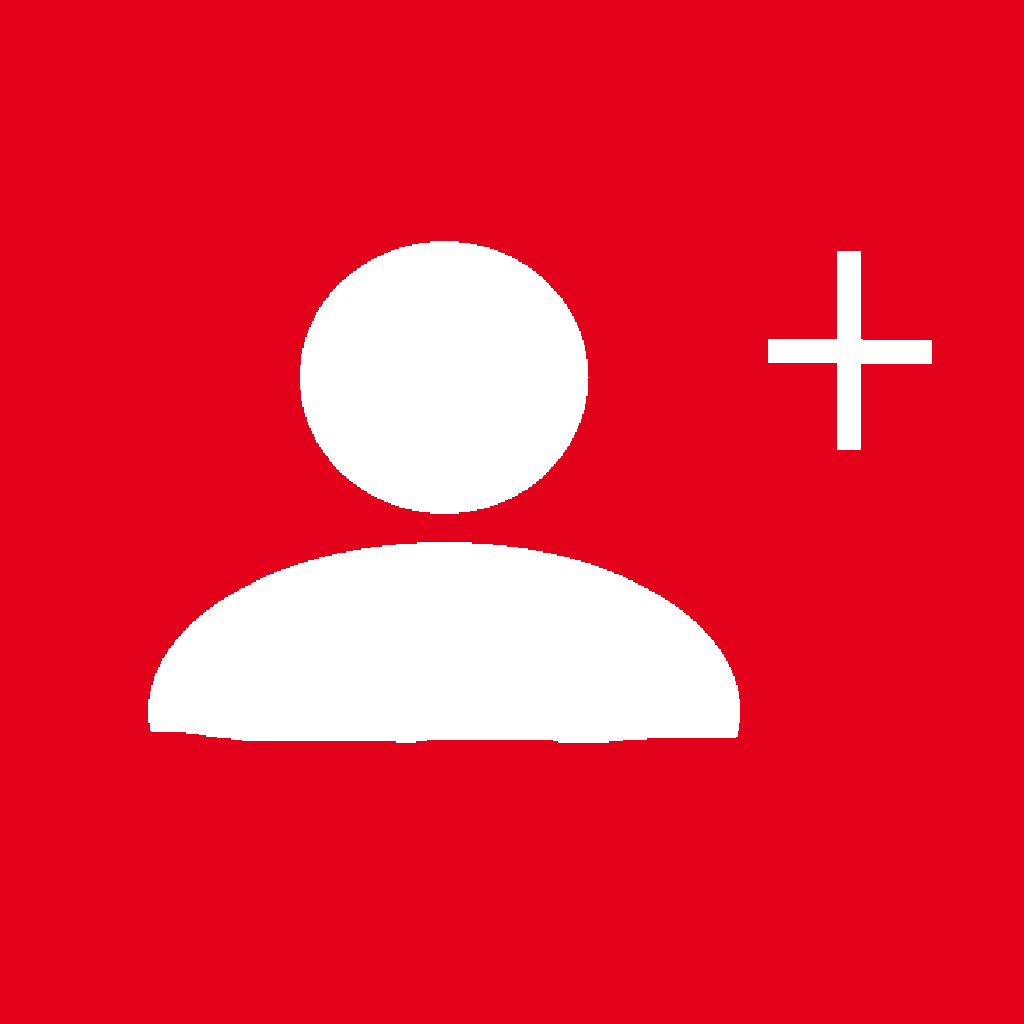
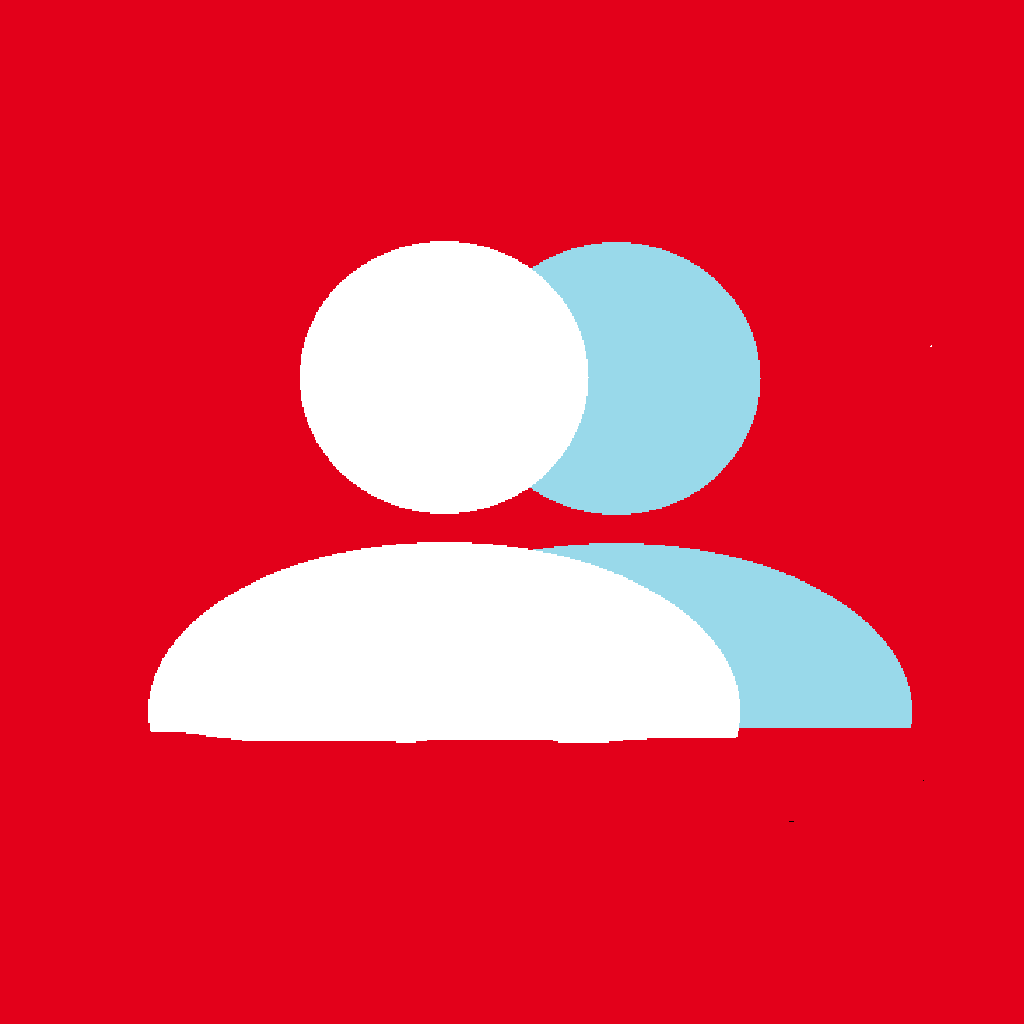
feed com estrelas, foto de perfil,biografia e outras adições

Changed region(s): [[0.5, 0.2188, 0.9062, 0.7188]]

diff --git a/backend/profiles.py b/backend/profiles.py
@@ -1,0 +1,80 @@
+from flask import Flask, request, jsonify, Blueprint, uuid, send_from_directory
+import os
+import sqlite3
+#pasta atual
+base_dir = os.path.dirname(os.path.abspath(__file__))
+#pasta dos bancos de dados
+db_dir = (base_dir + "/DB")
+#arquivo de banco de dado de post
+profile_dir = (db_dir + "/profile.db")
+profile_bp = Blueprint("profile", __name__)
+def get_db():
+    conn = sqlite3.connect(profile_dir)
+    return conn
+def create_table():
+    conn = get_db()
+    cur = conn.cursor()
+    cur.execute("CREATE TABLE IF NOT EXISTS profile (username TEXT, bio TEXT, ProfilePicture TEXT followers INTEGER, following INTEGER)")
+    conn.commit()
+    conn.close()
+create_table()
+@profile_bp.route("/edit", methods=["POST"])
+def edit():
+    data = request.get_json()
+    edit_mode = data.get("edit-mode")
+    content = data.get("content")
+    username = data.get("username")
+    if edit_mode == "bio":
+        conn = get_db
+        cur = conn.cursor()
+        cur.execute("INSERT INTO profile (bio) VALUES (?,) WHERE username = ?", (content, username))
+        conn.commit()
+        conn.close()
+        return jsonify({"status":"edit is sucessful"}),200
+
+UPLOAD_FOLDER = "../profile-pictures"
+os.makedirs(UPLOAD_FOLDER, exist_ok=True)
+
+@profile_bp.route("/upload_profile_pic", methods=["POST"])
+def upload_profile_pic():
+
+    username = request.form.get("username")
+
+    if not username:
+        return jsonify({"error": "Username não enviado"}), 400
+
+    if "file" not in request.files:
+        return jsonify({"error": "Nenhum arquivo enviado"}), 400
+
+    file = request.files["file"]
+
+    if file.filename == "":
+        return jsonify({"error": "Arquivo vazio"}), 400
+
+    ext = file.filename.split(".")[-1].lower()
+
+    if ext not in ["png", "jpg", "jpeg", "webp"]:
+        return jsonify({"error": "Formato inválido"}), 400
+
+    filename = f"{uuid.uuid4()}.{ext}"
+    file_path = os.path.join(UPLOAD_FOLDER, filename)
+
+    file.save(file_path)
+
+    conn = get_db()
+    cur = conn.cursor()
+
+    cur.execute(
+        "UPDATE profile SET ProfilePicture = ? WHERE username = ?",
+        (filename, username)
+    )
+
+    conn.commit()
+
+    return jsonify({"success": True, "filename": filename}), 200
+
+
+@profile_bp.route("/profile_pics/<filename>")
+def get_profile_pic(filename):
+    return send_from_directory(UPLOAD_FOLDER, filename)
+    

diff --git a/frontend-client/menu.py b/frontend-client/menu.py
@@ -223,37 +223,70 @@ def main_app():
             label(exit_label_text, window)
         button(signout_text, sign_out, window)
         button(back_text, main, window)
+    from functools import partial
+
     def feed():
         clean_layout(layout)
         button(back_text, main, window)
+
         data_feed = requests.get(url + "/feed")
         if data_feed.status_code in (200, 201):
             posts = data_feed.json()
-
-            
             posts_dict = {post['id']: post for post in posts}
 
-            
             labels = []
 
             for post in posts_dict.values():
-                
+
                 frame = QFrame()
                 frame_layout = QVBoxLayout(frame)
-                
-                
+                star_layout = QHBoxLayout()
+
                 frame_layout.addWidget(QLabel(f"{post['username']}"))
                 frame_layout.addWidget(QLabel(f"{post['text_post']}"))
                 frame_layout.addWidget(QLabel(f"{post['datetime']}"))
+
                 icon_button = QPushButton()
                 icon_button.setIcon(QIcon("../assets/default_star.png"))
                 icon_button.setIconSize(QSize(24, 24))
                 icon_button.setFixedSize(30, 30)
                 icon_button.setStyleSheet("border: none;")
-                frame_layout.addWidget(icon_button)
-                labels.append(frame)  
+                icon_button.clicked.connect(partial(toggle_star, icon_button))
+                star_label = QLabel("0")
+                star_label.setStyleSheet("color: white; font-size: 14px;")
+
+                star_layout.addWidget(icon_button)
+                star_layout.addWidget(star_label)
+                star_layout.addStretch()
+
+                frame_layout.addLayout(star_layout)
+
+                labels.append(frame)
 
             scroll_area(layout, labels)
+
+
+    def toggle_star(button, post_id):
+        if button.property("clicked") == True:
+            button.setProperty("clicked", False)
+            button.setIcon(QIcon("../assets/default_star.png"))
+        else:
+            button.setProperty("clicked", True)
+            try:
+                data_star = requests.post(
+                    url + "/star",
+                    json={
+                        "post_id":post_id,
+                        "add-or-remove":"add"
+                    },
+                    timeout=5
+                )
+            except:
+                pass
+            button.setIcon(QIcon("../assets/star.png"))
+    def my_account():
+        clean_layout(layout)
+        button(back_text, main, window)
     def main():
         clean_layout(layout)
         label(welcome_text, window)
@@ -265,7 +298,7 @@ def main_app():
             {"dir": "../assets", "icon": "configurations.png", "text": configurations_text, "action": configurations},
             {"dir": "../assets", "icon": "inbox.png", "text": inbox_text, "action": inbox}
         ])
-        icon_buttons_row([{"dir": "../assets", "icon": "posts.png", "text": feed_text, "action": feed}])
+        icon_buttons_row([{"dir": "../assets", "icon": "posts.png", "text": feed_text, "action": feed}, {"dir": "../assets", "icon": "my-account.png", "text": my_account_text, "action": my_account}])
         
     if __name__ != "__main__":
         main()

diff --git a/backend/post.py b/backend/post.py
@@ -21,6 +21,7 @@ def create_db():
                 username TEXT,
                 text_post TEXT,
                 star INTEGER,
+                unstar INTEGER,
                 datetime TEXT,
                 id INTEGER PRIMARY KEY AUTOINCREMENT)""")
     conn.commit()
@@ -60,6 +61,29 @@ def view_post(post_id):
             "username":username
         }
         return corpo_retorno
+@post_bp.route("/star", methods=["POST"])
+def star():
+    data = request.get_json()
+    post_id = data.get("post_id")
+    add_remove = data.get("add-or-remove")
+    star = 0
+    if add_remove == "add":
+        star = 1
+    else:
+        star = 0
+    conn = get_db()
+    cur = conn.cursor()
+    cur.execute("INSERT INTO posts(?) WHERE id = ?", (star, post_id,))
+    conn.commit()
+    conn.close()
+@post_bp.route("/return-stars<int:post_id>")
+def return_stars(post_id):
+    conn = get_db()
+    cur = conn.cursor()
+    cur.execute("SELECT star FROM posts WHERE id = ?", (post_id,))
+    stars = cur.fetchone()
+    conn.close()
+    return stars
 @post_bp.route("/feed")
 def feed():
     conn = get_db()